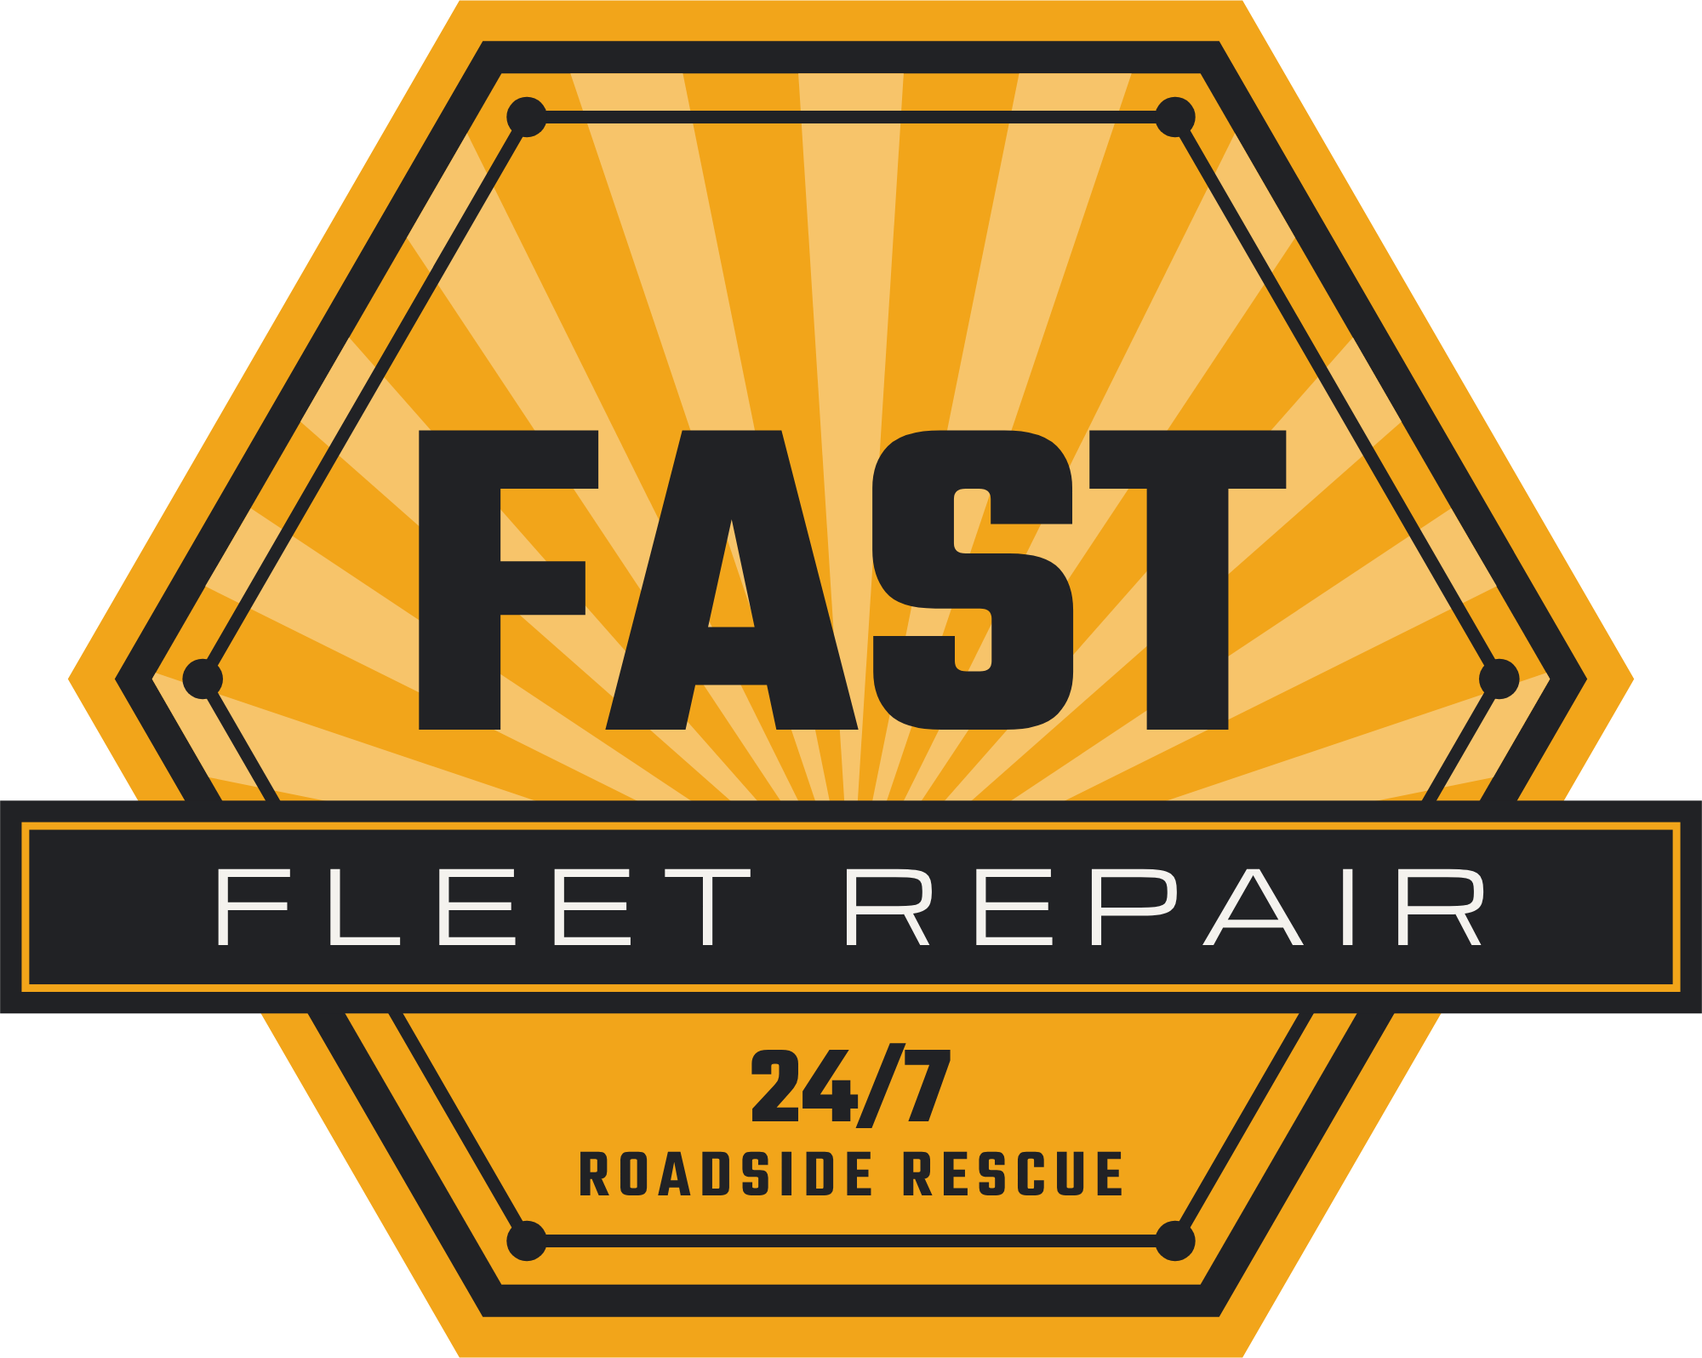
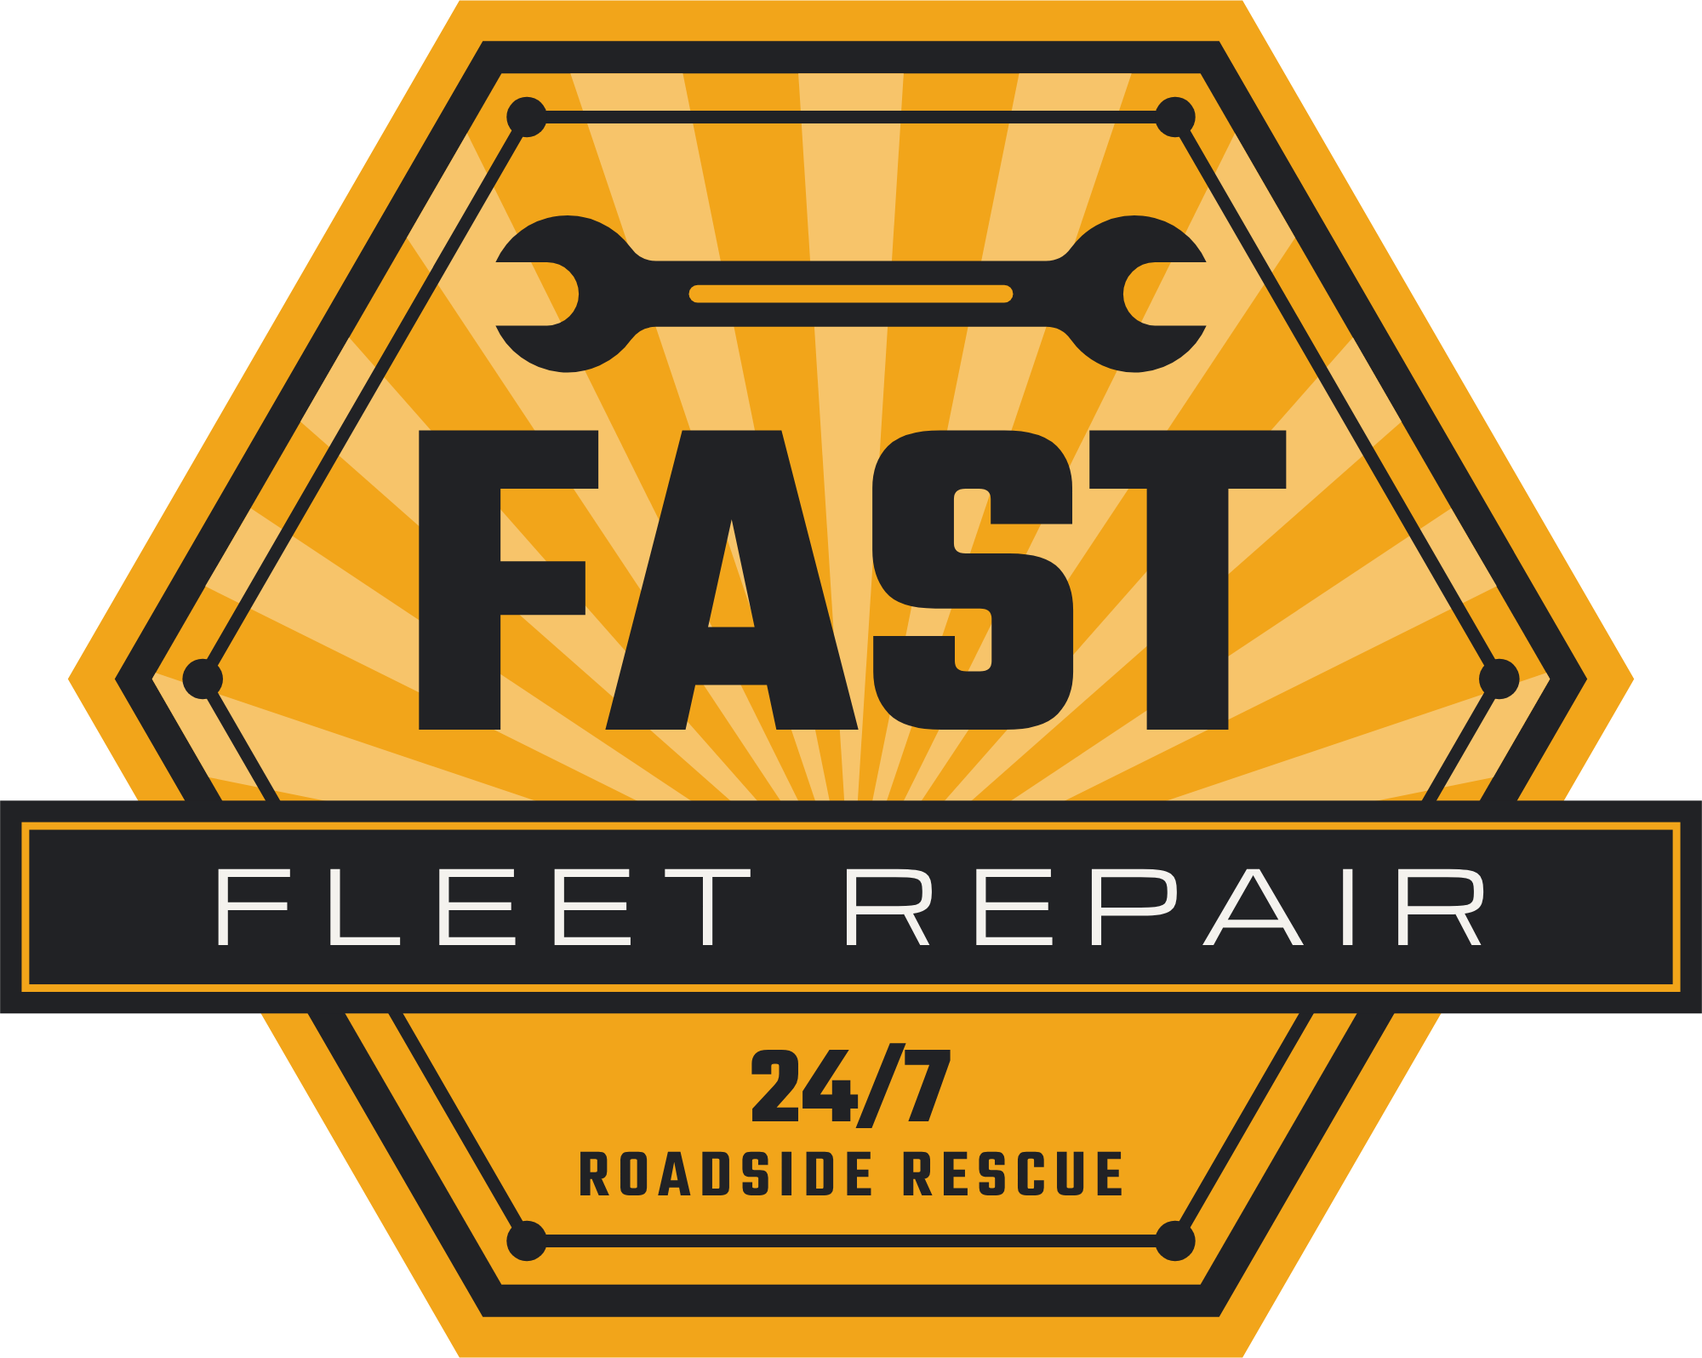
Release v1.0.0: first live version of fastfleetrepair.ca
- Hex Badge: a wrench above FAST, in the sprite on both pages and in the badge files in brand/
- Services page: badge in the header bar, smaller title, intro and card updates, CVIP pre-inspections,
  "Book your inspection"
- Home page: CVIP box, repair photos fact, wordmark-only footer, hero headline no longer squeezed on
  wide screens
- .htaccess for the live server: no folder listings, www to fastfleetrepair.ca, cache rules
- make-release.py builds the upload ZIP; README explains putting the site online

Changed region(s): [[0.279, 0.1536, 0.713, 0.2765]]

diff --git a/services.html b/services.html
@@ -45,6 +45,8 @@
       <circle cx="308" cy="160" r="4"/><circle cx="244" cy="270.9" r="4"/><circle cx="116" cy="270.9" r="4"/>
       <circle cx="52" cy="160" r="4"/><circle cx="116" cy="49.1" r="4"/><circle cx="244" cy="49.1" r="4"/>
     </g>
+    <path fill="#212225" d="M109.82 77.75A15.5 15.5 0 0 1 136.61 74.99A6 6 0 0 0 141.49 77.5H218.51A6 6 0 0 0 223.39 74.99A15.5 15.5 0 0 1 250.18 77.75H240A6.25 6.25 0 0 0 233.75 84A6.25 6.25 0 0 0 240 90.25H250.18A15.5 15.5 0 0 1 223.39 93.01A6 6 0 0 0 218.51 90.5H141.49A6 6 0 0 0 136.61 93.01A15.5 15.5 0 0 1 109.82 90.25H120A6.25 6.25 0 0 0 126.25 84A6.25 6.25 0 0 0 120 77.75Z"/>
+    <rect x="147.99" y="82.25" width="64.01" height="3.5" rx="1.75" fill="#F2A51A"/>
     <text x="178.7" y="170" font-family="Teko, 'Arial Narrow', sans-serif" font-weight="700" font-size="92" text-anchor="middle" fill="#212225">FAST</text>
     <rect x="12" y="184" width="336" height="42" fill="#212225"/>
     <rect x="17" y="189" width="326" height="32" fill="none" stroke="#F2A51A" stroke-width="1.5"/>
@@ -55,7 +57,7 @@
 </svg>
 
 <header class="top top-solid">
-  <a class="brand" href="index.html" aria-label="Fast Fleet Repair, home"><svg class="logo logo-dark" viewBox="0 0 262 76" aria-hidden="true" focusable="false"><use href="#ffr-lockup"/></svg></a>
+  <a class="brand" href="index.html" aria-label="Fast Fleet Repair, home"><svg class="logo logo-badge" viewBox="12 26 336 268" aria-hidden="true" focusable="false"><use href="#ffr-badge" width="360" height="320"/></svg></a>
   <nav class="nav" aria-label="Main">
     <a href="index.html">Home</a>
     <a href="services.html" aria-current="page">Services</a>
@@ -75,7 +77,7 @@
       <div>
         <p class="eyebrow">Services</p>
         <h1 id="page-title">Repair services that we provide</h1>
-        <p class="page-lede">Mobile truck and trailer repair across Calgary and the greater area. We come to you, on the shoulder or in your yard.</p>
+        <p class="page-lede">Mobile truck and trailer repair services across Calgary and the greater area. We come to you, on the shoulder or in your yard.</p>
       </div>
       <svg class="badge-aside" viewBox="0 0 360 320" role="img" aria-label="Fast Fleet Repair badge: 24/7 roadside rescue"><use href="#ffr-badge"/></svg>
     </div>
@@ -85,21 +87,22 @@
     <ul class="cards">
       <li class="card card-feature" id="maintenance">
         <span class="card-num">Our specialty</span>
-        <h2>Fleet and preventive maintenance</h2>
+        <h2> Inspection and preventative  maintenance programs</h2>
         <p>Scheduled inspections that catch problems before they turn into breakdowns, done where your units are parked.</p>
         <ul class="checks">
           <li>90-day inspections</li>
           <li>180-day inspections</li>
           <li>Fleet pre-trip and post-trip inspections</li>
+          <li>CVIP pre-inspections</li>
         </ul>
         <div class="card-actions">
-          <a class="btn btn-dark" href="mailto:info@fastfleetrepair.ca?subject=PM%20inspection%20request&amp;body=Company%3A%0D%0ANumber%20of%20units%3A%0D%0AInspection%20(90-day%2C%20180-day%2C%20pre%2Fpost-trip)%3A%0D%0APreferred%20date%3A%0D%0A">Book a PM inspection</a>
+          <a class="btn btn-dark" href="mailto:info@fastfleetrepair.ca?subject=PM%20inspection%20request&amp;body=Company%3A%0D%0ANumber%20of%20units%3A%0D%0AInspection%20(90-day%2C%20180-day%2C%20pre%2Fpost-trip%2C%20CVIP)%3A%0D%0APreferred%20date%3A%0D%0A">Book your inspection</a>
         </div>
       </li>
       <li class="card" id="emergency">
         <span class="card-num">01</span>
         <h2>24/7 emergency and roadside service</h2>
-        <p>Breakdowns on the highway or the shoulder, any hour of the day or night. Call and a service truck heads straight to where you stopped.</p>
+        <p>Breakdowns on the highway or the shoulder, any hour of the day or night. Call a service truck to dispatch roadside assistance.</p>
         <div class="card-actions">
           <a class="btn btn-call" href="tel:+15147707087">Call now</a>
         </div>
@@ -107,8 +110,15 @@
       <li class="card" id="yard">
         <span class="card-num">02</span>
         <h2>Urgent yard repairs</h2>
-        <p>Service calls to your yard when a unit can’t wait.</p>
-        <p>Our fully equipped service trucks get the job done efficiently.</p>
+        <ul class="checks">
+          <li>Service calls to your yard when a unit can’t wait</li>
+          <li>Our fully equipped service trucks get the job done efficiently</li>
+          <li>Brakes</li>
+          <li>Suspension</li>
+          <li>Hydraulics</li>
+          <li>Electrical issues</li>
+        </ul>
+        <p>We handle it all.</p>
         <div class="card-actions">
           <a class="btn btn-line" href="mailto:info@fastfleetrepair.ca?subject=Yard%20repair%20request">Request a yard call</a>
         </div>
@@ -116,12 +126,11 @@
       <li class="card" id="fabrication">
         <span class="card-num">03</span>
         <h2>Fabrication and custom trailer work</h2>
-        <p>Welding, fabrication and custom builds for trailers, plus:</p>
+        <p>Welding, fabrication and custom builds for trailers:</p>
         <ul class="checks">
-          <li>Interior damage repairs and fibreglass patches</li>
+          <li>Interior damage repairs/fiberglass patches</li>
           <li>Exterior panel repairs</li>
           <li>Door, floor and body repairs</li>
-          <li>Brakes and air systems</li>
         </ul>
         <div class="card-actions">
           <a class="btn btn-line" href="mailto:info@fastfleetrepair.ca?subject=Trailer%20repair%20quote">Ask for a quote</a>
@@ -133,7 +142,6 @@
   <section class="contact cta" id="contact" aria-labelledby="contact-title">
     <div class="wrap contact-inner">
       <h2 id="contact-title">Truck down? Call now!</h2>
-      <p class="contact-lede">One click away from getting back on the road!</p>
       <div class="cta-actions">
         <a class="btn btn-dark" href="tel:+15147707087">+1 (514) 770-7087</a>
         <a class="btn btn-line" href="mailto:info@fastfleetrepair.ca?subject=Service%20request">info@fastfleetrepair.ca</a>
@@ -145,7 +153,6 @@
 
 <footer class="foot wrap">
   <div class="foot-brand">
-    <a href="index.html" aria-label="Fast Fleet Repair, home"><svg class="logo logo-dark" viewBox="0 0 262 76" aria-hidden="true" focusable="false"><use href="#ffr-lockup"/></svg></a>
     <p>© <span data-year>2026</span> Fast Fleet Repair · 24/7 roadside rescue</p>
   </div>
   <nav class="foot-nav" aria-label="Footer">

diff --git a/index.html b/index.html
@@ -39,6 +39,7 @@
   "description": "24/7 mobile truck and trailer repair: roadside emergencies, preventive maintenance programs, yard repairs and custom trailer fabrication.",
   "telephone": "+15147707087",
   "email": "info@fastfleetrepair.ca",
+  "url": "https://fastfleetrepair.ca",
   "areaServed": "Calgary, Alberta and the greater area",
   "openingHours": "Mo-Su 00:00-23:59",
   "slogan": "24/7 Roadside Rescue"
@@ -79,6 +80,8 @@
       <circle cx="308" cy="160" r="4"/><circle cx="244" cy="270.9" r="4"/><circle cx="116" cy="270.9" r="4"/>
       <circle cx="52" cy="160" r="4"/><circle cx="116" cy="49.1" r="4"/><circle cx="244" cy="49.1" r="4"/>
     </g>
+    <path fill="#212225" d="M109.82 77.75A15.5 15.5 0 0 1 136.61 74.99A6 6 0 0 0 141.49 77.5H218.51A6 6 0 0 0 223.39 74.99A15.5 15.5 0 0 1 250.18 77.75H240A6.25 6.25 0 0 0 233.75 84A6.25 6.25 0 0 0 240 90.25H250.18A15.5 15.5 0 0 1 223.39 93.01A6 6 0 0 0 218.51 90.5H141.49A6 6 0 0 0 136.61 93.01A15.5 15.5 0 0 1 109.82 90.25H120A6.25 6.25 0 0 0 126.25 84A6.25 6.25 0 0 0 120 77.75Z"/>
+    <rect x="147.99" y="82.25" width="64.01" height="3.5" rx="1.75" fill="#F2A51A"/>
     <text x="178.7" y="170" font-family="Teko, 'Arial Narrow', sans-serif" font-weight="700" font-size="92" text-anchor="middle" fill="#212225">FAST</text>
     <rect x="12" y="184" width="336" height="42" fill="#212225"/>
     <rect x="17" y="189" width="326" height="32" fill="none" stroke="#F2A51A" stroke-width="1.5"/>
@@ -114,7 +117,7 @@
           <p class="cap-sub">24/7 mobile truck and trailer repair across Calgary and the greater area.</p>
         </div>
         <div class="cap cap-2">
-          <p class="cap-title">On the road to you.</p>
+          <p class="cap-title">your work never stops, neither do we.</p>
           <p class="cap-sub">A fully equipped service truck heads straight to where you stopped.</p>
         </div>
         <div class="cap cap-3">
@@ -145,7 +148,7 @@
         <h2 id="pm-title">We specialize in preventive maintenance.</h2>
         <p class="pm-lede">A PM program catches problems in the yard, before they leave a unit on the shoulder. We inspect your trucks and trailers on schedule, where they’re parked.</p>
         <div class="pm-actions">
-          <a class="btn btn-dark" href="mailto:info@fastfleetrepair.ca?subject=PM%20inspection%20request&amp;body=Company%3A%0D%0ANumber%20of%20units%3A%0D%0AInspection%20(90-day%2C%20180-day%2C%20pre%2Fpost-trip)%3A%0D%0APreferred%20date%3A%0D%0A">Book a PM inspection</a>
+          <a class="btn btn-dark" href="mailto:info@fastfleetrepair.ca?subject=PM%20inspection%20request&amp;body=Company%3A%0D%0ANumber%20of%20units%3A%0D%0AInspection%20(90-day%2C%20180-day%2C%20pre%2Fpost-trip%2C%20CVIP)%3A%0D%0APreferred%20date%3A%0D%0A">Book a PM inspection</a>
           <a class="btn btn-line" href="services.html#maintenance">PM program details</a>
         </div>
       </div>
@@ -153,6 +156,7 @@
         <li><strong>90-day</strong><span>Inspections</span></li>
         <li><strong>180-day</strong><span>Inspections</span></li>
         <li><strong>Pre-trip &amp; post-trip</strong><span>Fleet inspections</span></li>
+        <li><strong>CVIP</strong><span>Pre-inspections</span></li>
       </ul>
     </div>
   </section>
@@ -195,7 +199,7 @@
         <div>
           <p class="eyebrow">Contact</p>
           <h2 id="contact-title">Truck down? Call now!</h2>
-          <p class="contact-lede">One click away from getting back on the road!</p>
+          <p class="contact-lede">Your call is a priority, and we will respond right away!</p>
         </div>
         <svg class="badge-aside" viewBox="0 0 360 320" role="img" aria-label="Fast Fleet Repair badge: 24/7 roadside rescue"><use href="#ffr-badge"/></svg>
       </div>
@@ -222,9 +226,9 @@
         </div>
       </div>
       <dl class="facts">
-        <div><dt>Service hours</dt><dd>24/7, 365 days a year</dd><dd class="quote">“Your work never stops, neither do we!”</dd></div>
+        <div><dt>Service hours</dt><dd>24/7, 365 days a year</dd></div>
         <div><dt>Service area</dt><dd>Calgary and the greater area</dd></div>
-        <div><dt>Response</dt><dd>Your call is a priority, and we’ll respond ASAP.</dd></div>
+        <div><dt>Repair photos</dt><dd>We provide before &amp; after repair images.</dd></div>
       </dl>
     </div>
   </section>
@@ -233,7 +237,7 @@
 
 <footer class="foot wrap">
   <div class="foot-brand">
-    <a href="#story" aria-label="Fast Fleet Repair, back to top"><svg class="logo logo-dark" viewBox="0 0 262 76" aria-hidden="true" focusable="false"><use href="#ffr-lockup"/></svg></a>
+    <a href="#story" aria-label="Fast Fleet Repair, back to top"><svg class="logo logo-dark logo-wordmark" viewBox="108 0 154 76" aria-hidden="true" focusable="false"><use href="#ffr-lockup" width="262" height="76"/></svg></a>
     <p>© <span data-year>2026</span> Fast Fleet Repair · 24/7 roadside rescue</p>
   </div>
   <nav class="foot-nav" aria-label="Footer">

diff --git a/css/style.css b/css/style.css
@@ -138,6 +138,10 @@ h2, h3, .cap-title, .page-head h1 {
 .brand { display: block; margin-right: auto; }
 .logo { display: block; height: 2.6rem; width: auto; aspect-ratio: 262 / 76; }
 .logo-dark { --logo-edge: var(--amber); --logo-ring: var(--charcoal); --logo-fast: var(--white); --logo-fleet: var(--amber); }
+/* The badge as the services page header logo, sized to sit inside the bar. */
+.top .logo-badge { height: 3.25rem; aspect-ratio: 336 / 268; --badge-outline: var(--amber); }
+/* The lockup cropped to just the wordmark (landing page footer). */
+.logo-wordmark { aspect-ratio: 154 / 76; }
 /* The full badge beside a section heading (contact, services page head): wide screens only. */
 .badge-aside { display: none; flex: none; width: clamp(11rem, 19vw, 16rem); height: auto; aspect-ratio: 360 / 320; }
 .nav { display: none; gap: 1.6rem; }
@@ -166,7 +170,7 @@ h2, h3, .cap-title, .page-head h1 {
 }
 .top-link .icon { margin-top: 0; }
 .top-link span { display: none; }
-.top-solid { background: var(--charcoal); color: var(--white); border-bottom: 4px solid var(--amber); }
+.top-solid { padding-block: calc(env(safe-area-inset-top, 0px) + 0.75rem) 0.75rem; background: var(--charcoal); color: var(--white); border-bottom: 4px solid var(--amber); }
 
 /* ---------- Story ----------
    Default (no JavaScript or reduced motion): static scene with the captions listed below. */
@@ -175,7 +179,7 @@ h2, h3, .cap-title, .page-head h1 {
 #scene { display: block; width: 100%; height: auto; aspect-ratio: 1700 / 610; }
 
 .captions { display: grid; gap: 1.75rem; width: min(100% - 2.5rem, 72rem); margin: 1.5rem auto 3rem; }
-.cap-title { font-size: clamp(3.1rem, 14vw, 6.5rem); }
+.cap-title { font-size: clamp(3.1rem, 14vw, 6.5rem); text-wrap: balance; }
 .cap-sub { max-width: 26rem; margin-top: 0.6rem; font-size: 1.1rem; font-weight: 500; text-wrap: pretty; }
 
 html.anim-pending .stage { visibility: hidden; }
@@ -184,7 +188,7 @@ html.anim .stage { height: 100%; overflow: hidden; }
 html.anim #scene { position: absolute; inset: 0; width: 100%; height: 100%; aspect-ratio: auto; }
 html.anim .story .top { position: absolute; inset: 0 0 auto 0; z-index: 3; padding-bottom: 0; }
 html.anim .captions {
-  position: absolute; z-index: 2; top: clamp(4.75rem, 13svh, 8rem); left: 0; right: 0;
+  position: absolute; z-index: 2; top: clamp(4.75rem, 13svh, 8rem); left: 0; right: 0; width: auto;
   margin: 0; gap: 0; padding-inline: max(1.25rem, calc((100vw - 72rem) / 2)); pointer-events: none;
 }
 html.anim .cap { grid-area: 1 / 1; }
@@ -279,8 +283,9 @@ html.anim .cap { grid-area: 1 / 1; }
 .page-head { background: var(--rays), var(--amber); color: var(--charcoal); }
 .page-head .eyebrow { color: var(--charcoal); }
 .page-head-inner { display: flex; align-items: center; justify-content: space-between; gap: 2rem; padding-block: 3.5rem 4rem; }
-.page-head h1 { font-size: clamp(3rem, 12vw, 6.5rem); }
-.page-lede { max-width: 34rem; margin-top: 1rem; font-size: 1.2rem; font-weight: 500; }
+/* Title size: clamp(phones, grows with the screen, desktop). Change the last number to resize it on desktop. */
+.page-head h1 { font-size: clamp(3rem, 12vw, 4.25rem); }
+.page-lede { max-width: 40rem; margin-top: 1rem; font-size: 1.5rem; font-weight: 500; }
 .svc-page { padding-block: 3rem 1rem; }
 .svc-page .cards { margin-top: 0; }
 
@@ -432,6 +437,7 @@ html.anim .cap { grid-area: 1 / 1; }
 @media (min-width: 860px) {
   .top { padding-inline: max(1.25rem, calc((100vw - 72rem) / 2)); }
   .top .logo { height: 3rem; }
+  .top .logo-badge { height: 3.5rem; }
   .top-contact { gap: 1.5rem; }
   .top-link { width: auto; height: auto; border: 0; }
   .top-link span { display: inline; white-space: nowrap; font-family: var(--display); font-size: 1.4rem; font-weight: 600; line-height: 1; padding-top: 0.15em; }

diff --git a/make-release.py b/make-release.py
@@ -1,0 +1,26 @@
+"""Build the upload file for the live site: release/fast-fleet-repair-v<version>.zip
+
+usage (in this folder):  py make-release.py 1.0.0
+
+The ZIP holds only what the website needs, with index.html at the top, ready to extract into the site folder on
+the hosting (see "Put it online" in README.md).
+"""
+import pathlib
+import sys
+import zipfile
+
+ROOT = pathlib.Path(__file__).resolve().parent
+FOLDERS = ['css', 'js', 'fonts']
+FILES = ['.htaccess', 'brand/favicon-32.png', 'brand/apple-touch-icon.png']
+
+if len(sys.argv) != 2:
+    sys.exit(__doc__)
+names = sorted(p.name for p in ROOT.glob('*.html')) + FILES
+names += sorted(p.relative_to(ROOT).as_posix() for d in FOLDERS for p in (ROOT / d).rglob('*') if p.is_file())
+
+out = ROOT / 'release' / f'fast-fleet-repair-v{sys.argv[1]}.zip'
+out.parent.mkdir(exist_ok=True)
+with zipfile.ZipFile(out, 'w', zipfile.ZIP_DEFLATED) as z:
+    for name in names:
+        z.write(ROOT / name, name)  # forward slashes inside the ZIP, so the server unpacks the folders correctly
+print(f'{out} ({len(names)} files, {out.stat().st_size // 1024} KB)')

diff --git a/README.md b/README.md
@@ -16,6 +16,25 @@ Plain HTML, CSS and JavaScript, no build step.
 5. On a real phone: connect it to the same Wi-Fi and open `http://YOUR-COMPUTER-IP:8000`.
 6. Stop the server with Ctrl+C.
 
+## Put it online
+
+The live site is https://fastfleetrepair.ca, on Spaceship shared hosting (cPanel, LiteSpeed server). The domain
+and its free SSL certificate are set up there, and the server already sends http:// visitors to https://.
+Email for the domain (info@) runs on Microsoft 365, separately from the hosting.
+
+First upload, or a full update:
+
+1. In this folder run `py make-release.py 1.0.0` (a new version number each time). It writes
+   `release/fast-fleet-repair-v1.0.0.zip` with only the files the website needs.
+2. Spaceship: Hosting Manager → Go to cPanel → File Manager. Open the site folder: on Spaceship it is named after
+   the domain, `fastfleetrepair.ca` (Hosting Manager → Manage → Advanced shows it as the document root).
+3. Upload the ZIP into that folder, right-click it → Extract (into the same folder, overwriting old files), then
+   delete the ZIP. `index.html` must sit directly in the site folder, next to `css`, `js`, `fonts` and `brand`.
+4. Open https://fastfleetrepair.ca and press Ctrl+Shift+R.
+
+Small update (one or two files): in File Manager, open the matching folder inside the site folder (for example
+`css`) and upload the changed file over the old one. `.htaccess` is hidden: Settings → Show Hidden Files.
+
 ## Folder
 
 ```
@@ -27,6 +46,8 @@ js/site.js            email checklist + popup, smooth in-page links, footer year
 js/vendor/            GSAP 3.15 + ScrollTrigger (local copies, works offline)
 fonts/                Teko (headlines) and Michroma (wordmark)
 brand/                logo files (SVG with outlined lettering, PNG) and how to use them: brand/README.md
+.htaccess             live server settings: no folder listings, www -> fastfleetrepair.ca, caching
+make-release.py       builds the upload ZIP for the live site (see "Put it online")
 ```
 
 ## Edit the details
@@ -39,8 +60,9 @@ brand/                logo files (SVG with outlined lettering, PNG) and how to u
   (`#emergency`, `#maintenance`, `#yard`, `#fabrication`).
 - Logo (the Hex Badge): the header/footer lockup and the full badge are SVG symbols, `#ffr-lockup` and
   `#ffr-badge`, in the sprite at the top of `index.html` and `services.html` (keep the two copies identical).
-  They are placed with `<use>`: header, footer, the contact section, the services page head and the service
-  truck's door in the hero. The favicon (hex "F" icon) is inline in each page's `<head>`.
+  They are placed with `<use>`: the landing page header (lockup), the services page header (badge), the
+  landing page footer (the lockup cropped to the wordmark, no hex), the contact section, the services page head
+  and the service truck's door in the hero. The favicon (hex "F" icon) is inline in each page's `<head>`.
 - Colours: top of `css/style.css` (`--amber`, `--charcoal`, ...), taken from the business card.
   The amber in the drawing itself is `#F2A51A`.
 - Fonts: Teko (headlines, as on the card) and Michroma (wordmark).
